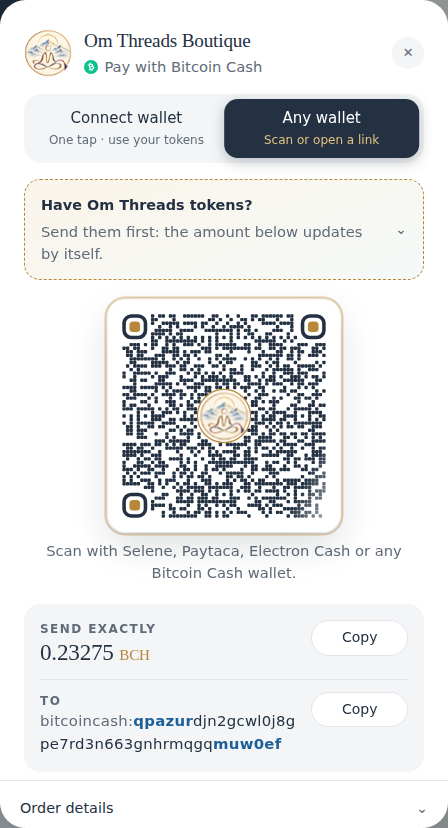
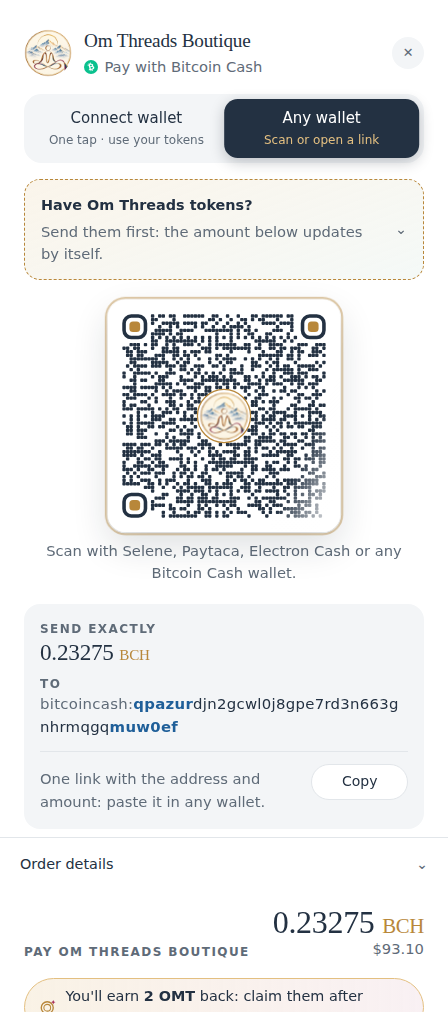
Pay sheet: fix the page freezing after closing it; one copy for the payment link (#6)
Closing the sheet left it mounted (and invisible) over the page while the
order was still open, so nothing could be clicked. The closing state now
resets after the slide-out, and a closing sheet never takes clicks.

The Any wallet pane copies one BIP21 link (address and amount together)
instead of the amount and address separately.

Claude-Session: https://claude.ai/code/session_014LZ5mSBy3D74Yki9o1WRub

diff --git a/examples/react/PaySheet.tsx b/examples/react/PaySheet.tsx
@@ -176,10 +176,18 @@ export function PaySheet({
     };
   }, [open, viaWallet, phase, info, amount, offer?.category, api, onPreview, bch.amountBch]);
 
+  // Closing plays the slide-out, then the sheet is gone: nothing stays over the page, even if it stays mounted.
+  const closeTimer = useRef<ReturnType<typeof setTimeout>>(undefined);
+  useEffect(() => () => clearTimeout(closeTimer.current), []);
   function close() {
+    if (closeTimer.current) return;
     if (phase === "approving") abort.current?.abort();
     setClosing(true);
-    setTimeout(onClose, 260);
+    closeTimer.current = setTimeout(() => {
+      closeTimer.current = undefined;
+      setClosing(false);
+      onClose();
+    }, 260);
   }
 
   function choose(m: Method) {
@@ -538,7 +546,7 @@ export function PaySheet({
   );
 }
 
-/** Any wallet: tokens first if the shopper has some, then the payment by QR code or link (with the amount and address to copy). */
+/** Any wallet: tokens first if the shopper has some, then the payment by QR code or link (or its payment link to copy: the address with the amount in it). */
 function AnyWalletPane({ bch, brand, phone, showQr, setShowQr }: { bch: BchView; brand: BchBrand; phone: boolean; showQr: boolean; setShowQr: (v: boolean) => void }) {
   const [tokens, setTokens] = useState(false);
   const qr = !phone || showQr;
@@ -602,20 +610,18 @@ function AnyWalletPane({ bch, brand, phone, showQr, setShowQr }: { bch: BchView;
 
       <div className="bchpay-send-box">
         <div className="bchpay-copy-row">
-          <div>
+          <div className="bchpay-grow">
             <p className="bchpay-eyebrow">{bch.state === "partial" ? "Send the rest" : "Send exactly"}</p>
             <p className="bchpay-title">
               {bch.amountBch} <span className="bchpay-unit">BCH</span>
             </p>
-          </div>
-          <CopyButton value={bch.amountBch!} label="amount" />
-        </div>
-        <div className="bchpay-copy-row bchpay-divided">
-          <div className="bchpay-grow">
-            <p className="bchpay-eyebrow">To</p>
+            <p className="bchpay-eyebrow bchpay-gap-sm">To</p>
             <Address value={bch.address!} />
           </div>
-          <CopyButton value={bch.address!} label="address" />
+        </div>
+        <div className="bchpay-copy-row bchpay-divided">
+          <p className="bchpay-text">One link with the address and amount: paste it in any wallet.</p>
+          <CopyButton value={bch.uri!} label="payment link" />
         </div>
       </div>
     </section>

diff --git a/examples/react/bch-pay.css b/examples/react/bch-pay.css
@@ -818,6 +818,9 @@
   transition: transform 0.3s cubic-bezier(0.2, 0.9, 0.3, 1);
   animation: bchpay-up 0.5s cubic-bezier(0.2, 1, 0.3, 1) both;
 }
+.bchpay-sheet-wrap.closing {
+  pointer-events: none;
+}
 .bchpay-sheet-wrap.closing .bchpay-sheet {
   animation: bchpay-down 0.26s cubic-bezier(0.4, 0, 1, 1) both;
 }
